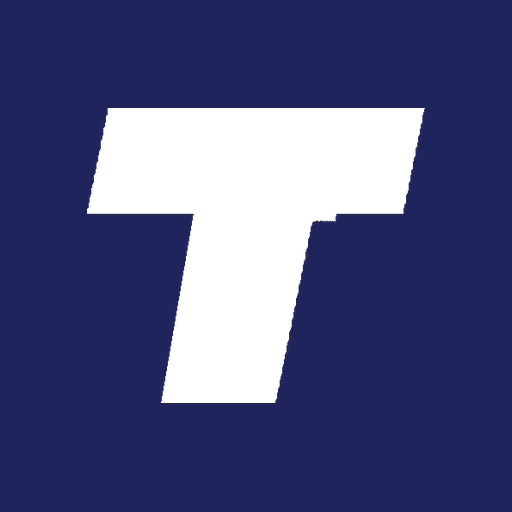
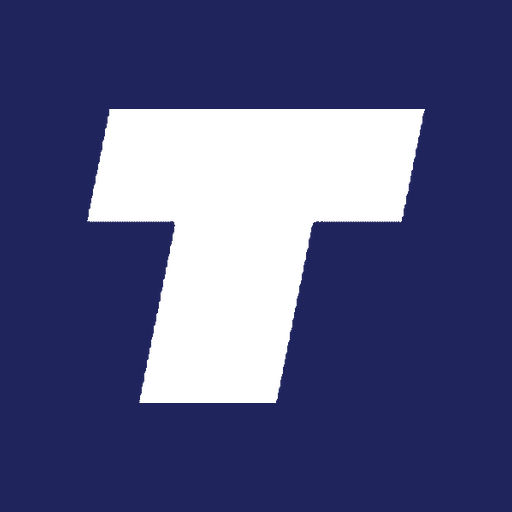
fav ico

diff --git a/apps/web/assets/brand/generate_brand_assets.py b/apps/web/assets/brand/generate_brand_assets.py
@@ -10,7 +10,7 @@ from pathlib import Path
 from shutil import copyfile
 
 import numpy
-from PIL import Image, ImageChops, ImageOps
+from PIL import Image, ImageChops, ImageDraw, ImageOps
 
 
 BRAND_BLUE = (31, 36, 92)
@@ -18,6 +18,8 @@ RESAMPLING = Image.Resampling.LANCZOS
 WEB_DIRECTORY = Path(__file__).resolve().parents[2]
 SOURCE_DIRECTORY = Path(__file__).resolve().parent / "originales"
 PUBLIC_DIRECTORY = WEB_DIRECTORY / "public"
+# Punto interior al trazo superior de la T en el JPG fuente (logotipo-timbo-blanco-sobre-azul.jpg).
+TIMBO_T_SEED_PIXEL = (250, 950)
 
 
 def foreground_mask(image: Image.Image) -> Image.Image:
@@ -105,17 +107,17 @@ def facility_asset(source: Image.Image, target_width: int, destination: Path) ->
 
 
 def timbo_monogram_mask(source: Image.Image) -> Image.Image:
-    """Recorta la T inclinada del wordmark mediante su silueta original."""
-    mask = foreground_mask(source)
-    # La T ocupa el extremo izquierdo del wordmark; el polígono evita incorporar la I.
-    polygon = Image.new("L", source.size, 0)
-    from PIL import ImageDraw
+    """Aísla la silueta real de la T inclinada del wordmark.
 
-    ImageDraw.Draw(polygon).polygon(
-        [(90, 880), (490, 880), (465, 1015), (385, 1015), (350, 1248), (180, 1248), (220, 1015), (65, 1015)],
-        fill=255,
-    )
-    return ImageChops.multiply(mask, polygon).crop((65, 880, 490, 1248))
+    La T y la I siguiente están separadas por un hueco de fondo azul, así que un
+    flood fill desde un punto interior de la T reproduce el corte diagonal exacto
+    de la tipografía en vez de aproximarlo con un polígono dibujado a mano.
+    """
+    mask = foreground_mask(source)
+    filled = mask.copy()
+    ImageDraw.floodfill(filled, TIMBO_T_SEED_PIXEL, 128)
+    isolated = filled.point(lambda value: 255 if value == 128 else 0)
+    return isolated.crop(isolated.getbbox())
 
 
 def icon_asset(mask: Image.Image, size: int, content_ratio: float) -> Image.Image:
